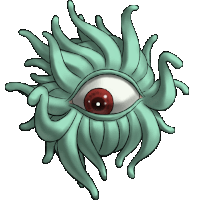
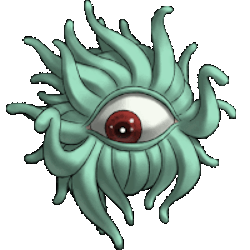
make T3 monsters more impressive and put them on battle log

diff --git a/battle_log.html b/battle_log.html
@@ -4,62 +4,87 @@
 <script src="import_manager.js"></script>
 <script>
 var battle_names = [
-'caves/bat',
-'caves/bloodsucker',
-'caves/crawler',
-'caves/lizard',
-'caves/mole',
-'caves/rhino',
-'caves/scorpion',
-'caves/slime',
-'forests/blob',
-'forests/boar',
-'forests/flower',
-'forests/fox',
-'forests/fungus',
-'forests/mandragora',
-'forests/morel',
-'forests/nymph',
-'forests/squirrel',
-'forests/tree',
-'forests/truffle',
-'forests/trunk',
-'mountains/chimera',
-'mountains/dragon',
-'mountains/emu',
-'mountains/harpy',
-'mountains/hawk',
-'mountains/manticore',
-'mountains/phoenix',
-'mountains/pterosaur',
-'trial/arachnid',
-'trial/cockroach',
-'trial/rodent',
-'trial/viper',
-'waters/anemone',
-'waters/anglerjelly',
-'waters/crab',
-'waters/jellyfish',
-'waters/mermaid',
-'waters/naiad',
-'waters/octopus',
-'waters/serpent',
-'waters/squid',
-'waters/triton',
-'waters/whale',
-'world/arsonist',
-'world/bruiser',
-'world/butcher',
-'world/djinn',
-'world/ghost',
-'world/goblin',
-'world/grizzly',
-'world/knight',
-'world/mammoth',
-'world/mummy',
-'world/skeleton',
-'world/vadhaka',
-'world/wraith',
+
+  'forests/boar',
+  'forests/flower',
+  'forests/fox',
+  'forests/mandragora',
+  'forests/morel',
+  'forests/nymph',
+  'forests/squirrel',
+  'forests/tree',
+  'forests/truffle',
+  'forests/trunk',
+  'mountains/chimera',
+  'mountains/emu',
+  'mountains/harpy',
+  'mountains/hawk',
+  'mountains/manticore',
+  'mountains/pterosaur',
+  'caves/bat',
+  'caves/bloodsucker',
+  'caves/crawler',
+  'caves/mole',
+  'caves/scorpion',
+  'caves/slime',
+  'waters/anemone',
+  'waters/anglerjelly',
+  'waters/crab',
+  'waters/jellyfish',
+  'waters/mermaid',
+  'waters/naiad',
+  'waters/octopus',
+  'waters/squid',
+  'waters/triton',
+  'world/arsonist',
+  'world/bruiser',
+  'world/butcher',
+  'world/djinn',
+  'world/ghost',
+  'world/goblin',
+  'world/grizzly',
+  'world/knight',
+  'world/mammoth',
+  'world/mummy',
+  'world/skeleton',
+  'world/vadhaka',
+  'world/wraith',
+  'heaven/angel',
+  'heaven/cherub',
+  'heaven/maneki',
+  'heaven/ponpon',
+  'heaven/raijuu',
+  'heaven/seraph',
+  'heaven/valkyrie',
+  'hell/centipede',
+  'hell/devilfly',
+  'hell/eyeball',
+  'hell/hecatoncheir',
+  'hell/sandworm',
+  'hell/satyr',
+  'hell/serpentine',
+  'hell/toad',
+  'hell/warlock',
+  'pandemonium/abaddon',
+  'pandemonium/asmodeus',
+  'pandemonium/azazel',
+  'pandemonium/belial',
+  'pandemonium/belphegor',
+  'pandemonium/golem',
+  'pandemonium/hellhound',
+  'pandemonium/ifrit',
+  'pandemonium/mammon',
+  'pandemonium/titan',
+
+  'forests/blob',
+  'forests/fungus',
+  'mountains/dragon',
+  'mountains/phoenix',
+  'caves/lizard',
+  'caves/rhino',
+  'waters/serpent',
+  'pandemonium/lieutenant',
+  'pandemonium/lord',
 ];
 
 var draw_table = function (){
